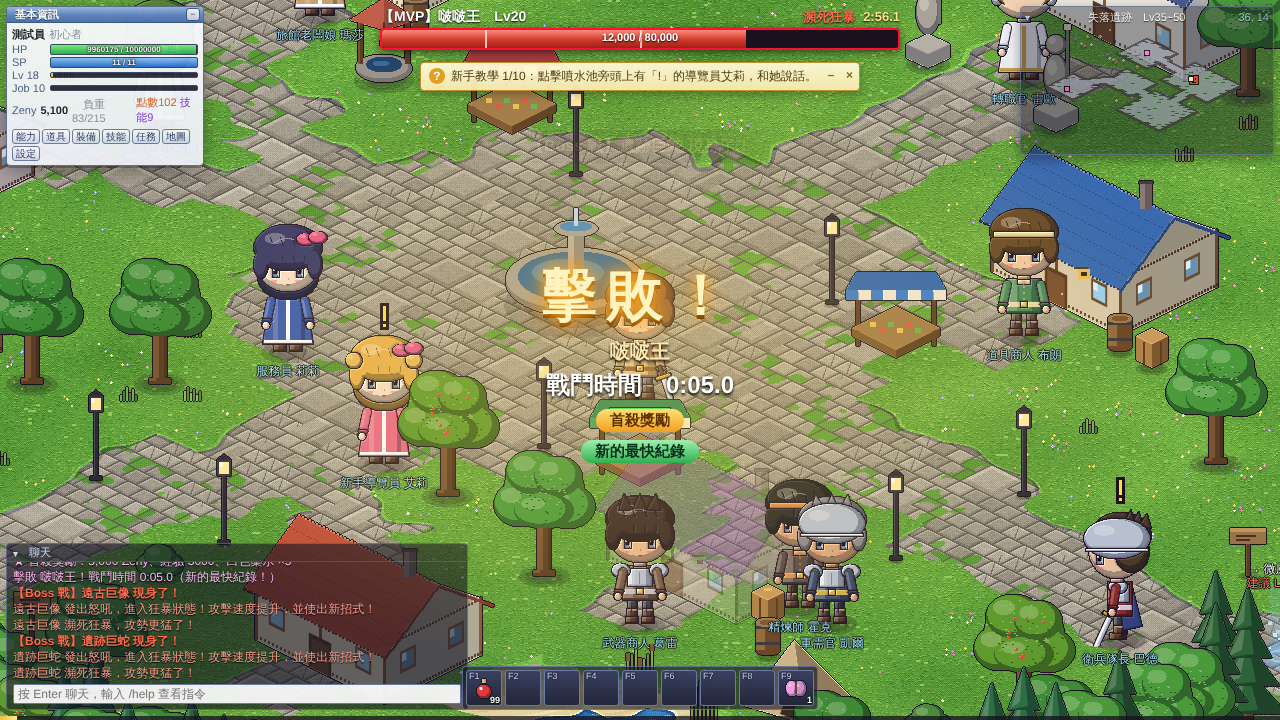
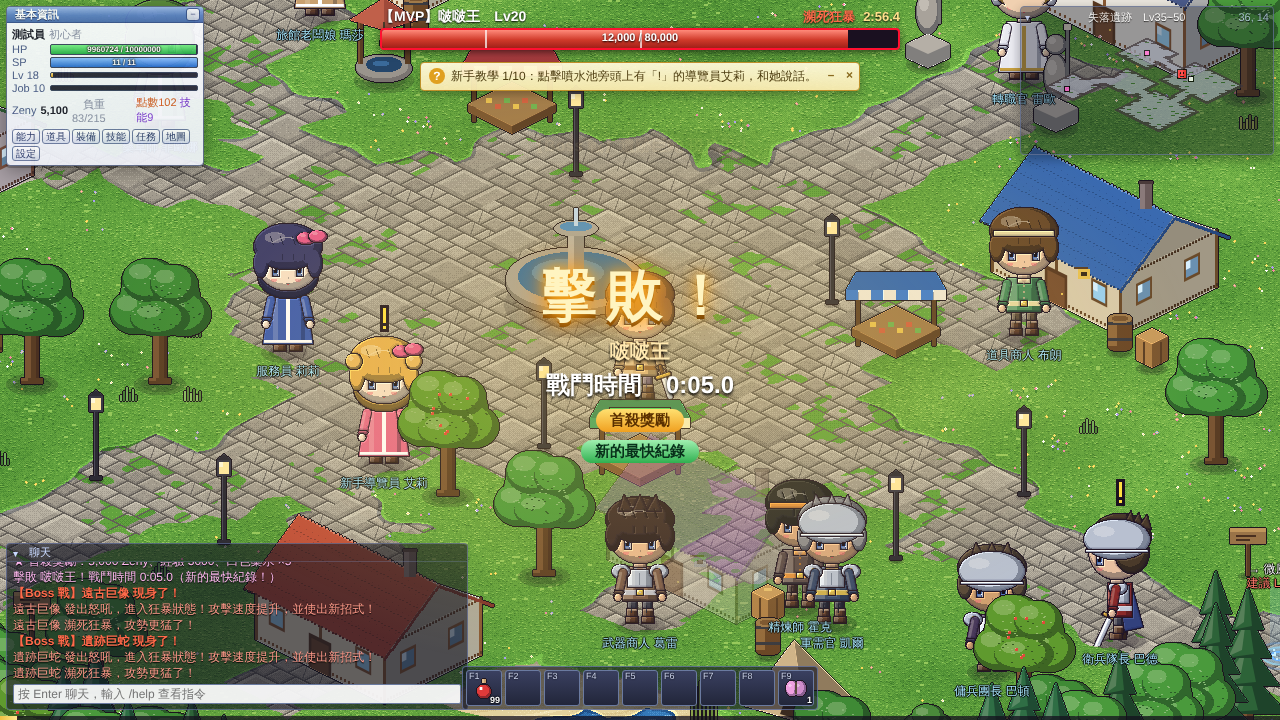
傭兵：樂師歌曲加入魔法攻擊、紀錄模擬結果
Claude-Session: https://claude.ai/code/session_01T2m48zuVeiYqCrQn65uTXz

diff --git a/ro-mmorpg/PROGRESS.md b/ro-mmorpg/PROGRESS.md
@@ -440,3 +440,10 @@
 | 弓箭手線 | 36 | 74 | 124 | 216 | Lv62 |
 - 三轉門檻（基本等級 70）在 260 分鐘內沒有任何職業到達。Lv50 之後每 5 級要 60~90 分鐘且越來越慢（經驗表每 5 級翻倍，怪物經驗只增加約 1.3 倍）。
 - 建議：三轉門檻降到 Lv60，並把凜冬雪原約 +30%、熔岩谷約 +50% 經驗（待作者決定）。
+
+## 傭兵系統（輔助型，與玩家職業不重複）
+- `data/mercs.json`：契約 1800 秒、價格 300＋120×等級、打 MVP 時效果 ×0.6；三種傭兵：牧師（血量 <60% 小補、<35% 大補，並回一點 SP）、樂師（戰鬥之歌：ATK／MATK／攻速／閃避，強度隨等級）、煉金術士（炸彈：範圍傷害、無視 50% 防禦、降低防禦 15）。馴獸師（寶獸）還沒做。
+- 程式：`entities/Merc.ts`、`systems/Mercs.ts`（跟隨、傳送追上、各職能、契約倒數、存檔 `merc: {type,left}`）；傭兵公會 NPC 傭兵團長 巴頓（晨曦鎮 (43,30)，對話 `mercmenu`：雇用／續約／解雇）。傭兵不會被怪物攻擊（不會倒下），不吃經驗、不搶掉落；換地圖會跟著出現在身旁，頭上顯示「名稱（剩 N 分）」。
+- 新增技能 `merc_song`（樂師歌曲的能力加成定義，沿用通用 `buffStat`）。
+- 測試：`tools/act/merc.js`（雇用／Zeny 不足／跟隨／補血／回 SP／換地圖／存檔還原／樂師加成／炸彈／到期）。
+- 模擬（含傭兵）：劍士雇煉金術士、法師與弓箭手雇樂師，到 Lv50 的分鐘：131／117／71，與沒有傭兵（133／122／74）差不到 5%。升級速度的瓶頸是經驗表，不是輸出，所以傭兵主要是方便與 Zeny 去處。
